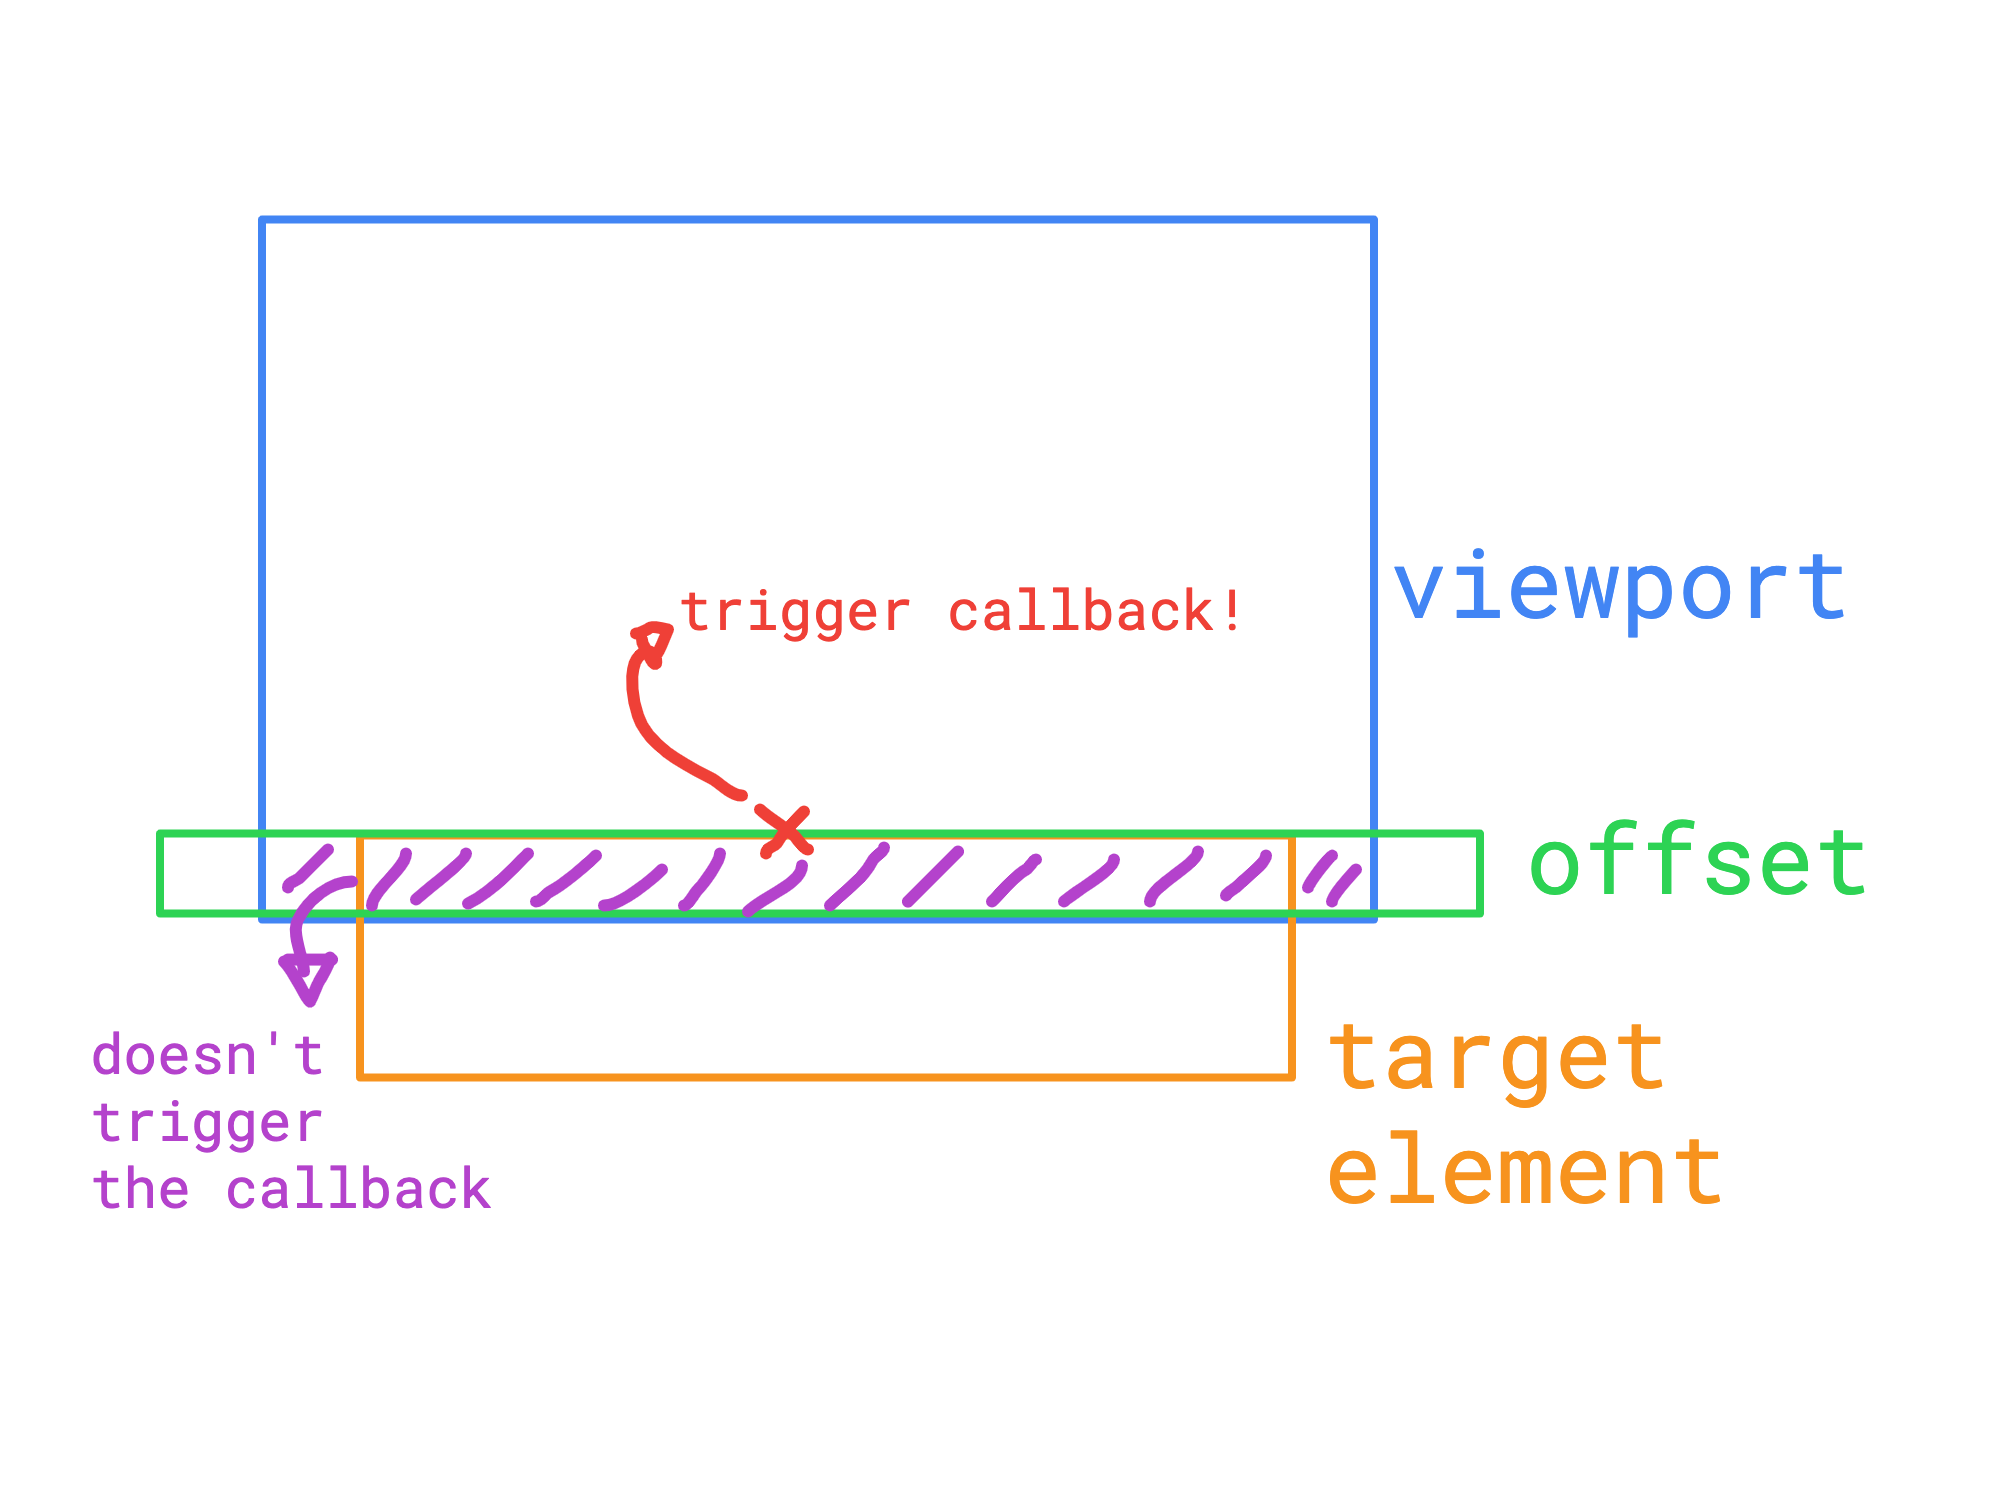
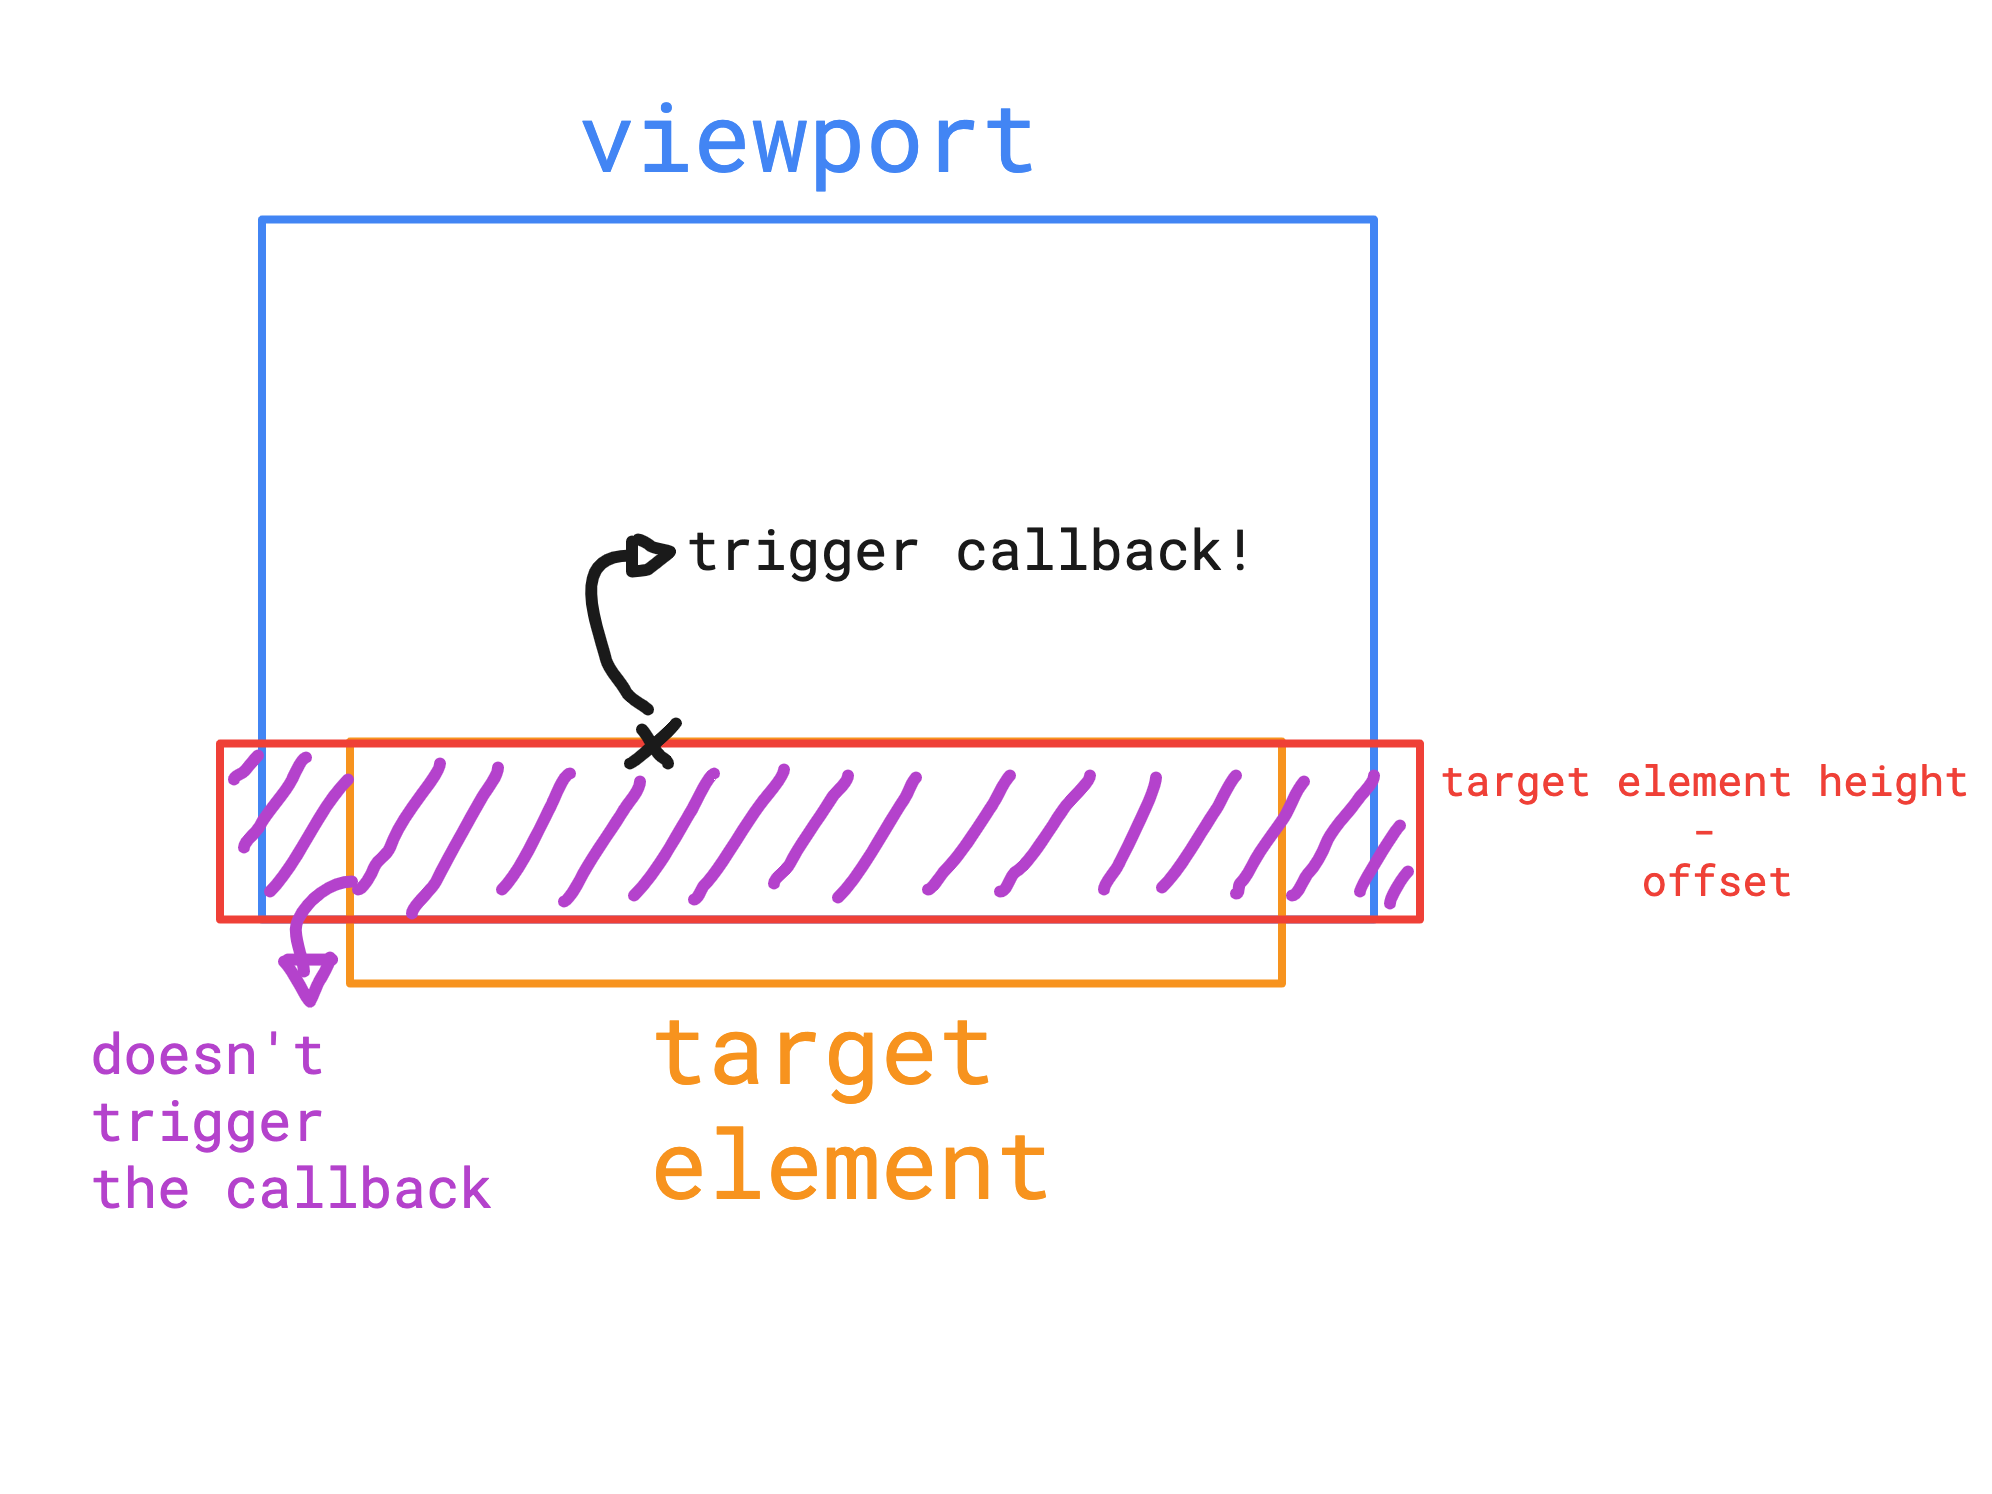
docs: fix bottom option documentation

diff --git a/README.md b/README.md
@@ -14,7 +14,9 @@ The `viewport` is expanded vertically by X pixels, being X the offset value.
 
 ## Bottom
 
-The size of the viewport's bottom is reduced by the offset:
+The size of the viewport's bottom is reduced by the offset. 
+
+To achieve this using the Intersection Observer API we calculate `element size - offset` and apply the result as a negative margin value.
 
 ![bottom_offset](./assets/img/bottom_offset.png)
 
